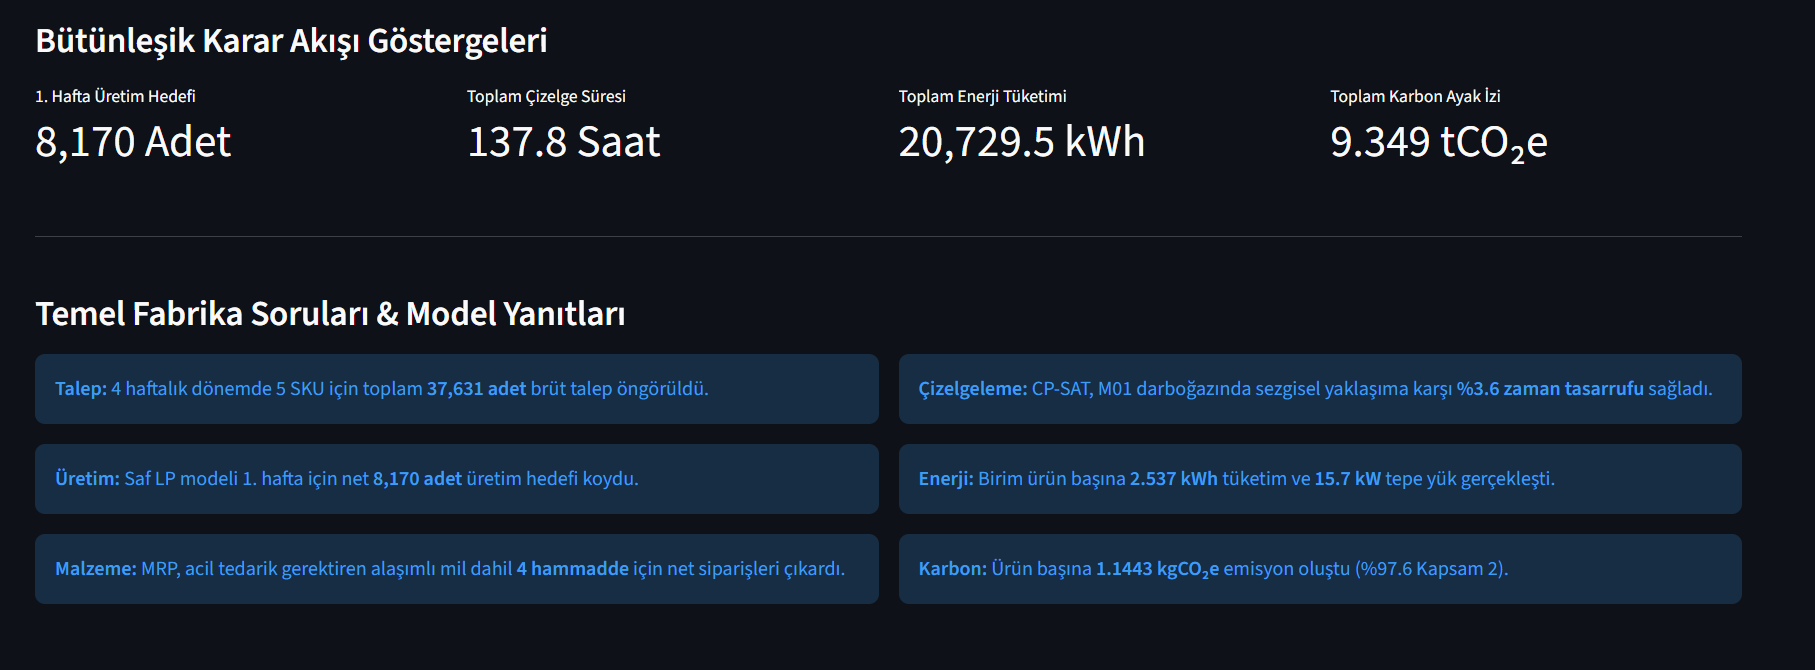
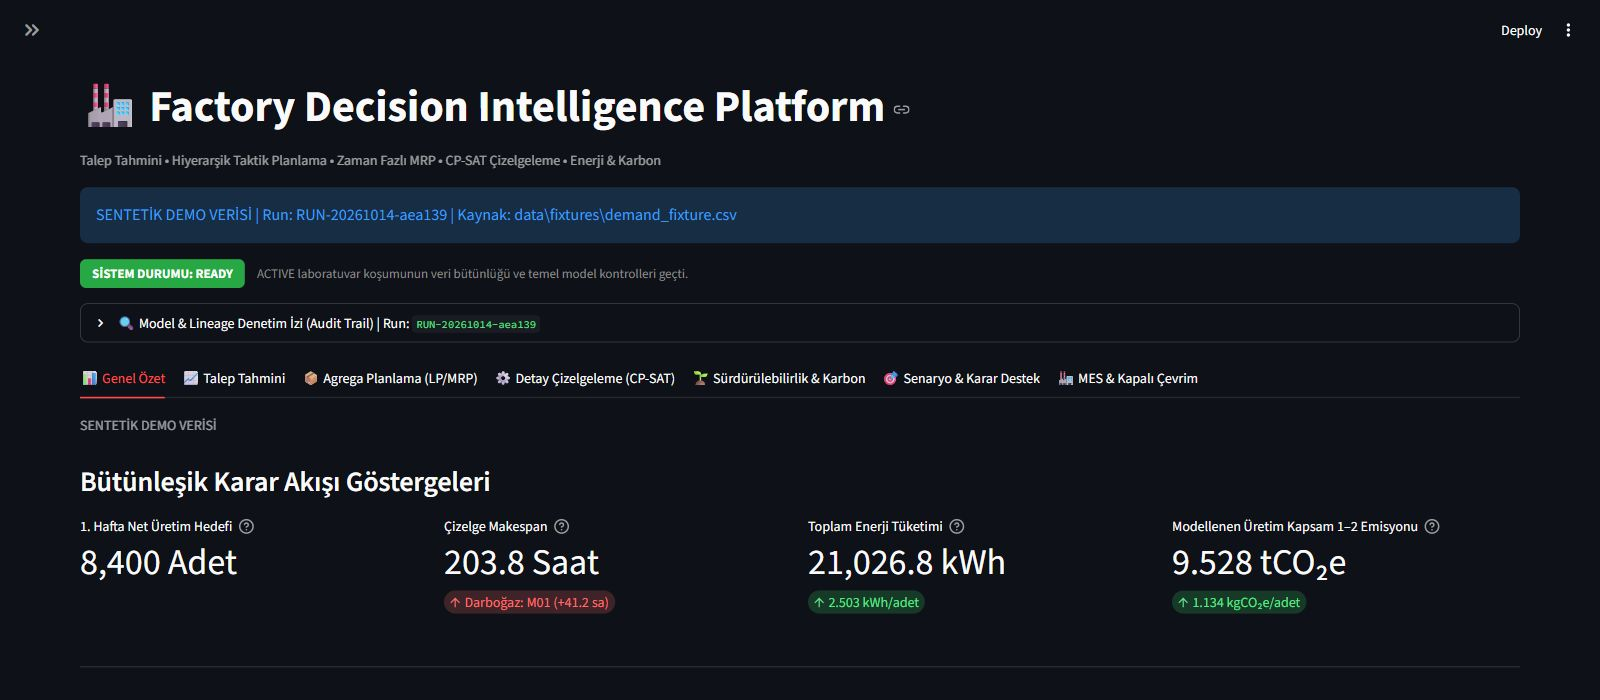
Refresh dashboard screenshots from current demo

diff --git a/README.md b/README.md
@@ -18,9 +18,17 @@
 
 Factory Decision Intelligence (FDI), üretim planı ve makine çizelgelemesi için **tek sunuculu bir karar destek laboratuvarı prototipidir**. Gösterilen sonuçlar sentetik veya açık benchmark verisidir; henüz fabrika, müşteri verisi, ERP/MES bağlantısı ya da saha faydası doğrulaması yoktur.
 
-![FDI synthetic demo dashboard showing planning indicators](docs/screenshots/01_executive_summary.png)
+![FDI dashboard summary from the current synthetic demo run](docs/screenshots/01_executive_summary.png)
 
-*Ekran görüntüsü sentetik demo verisi kullanır; gerçek bir fabrikanın sonucu değildir.*
+*Güncel uygulama görünümü; temiz sentetik demo koşumu, gerçek fabrika verisi değildir.*
+
+<details>
+<summary>Güncel CP-SAT çizelgesi ve operasyon ekranı</summary>
+
+![Current CP-SAT Gantt chart and schedule table from the synthetic demo](docs/screenshots/03_detailed_schedule_gantt.png)
+
+*Koşum: `RUN-20261014-aea139`. CP-SAT sonucu `FEASIBLE`; optimumluk kanıtı değildir.*
+</details>
 
 [Kurulum ve demo](docs/quickstart-lab.md) · [Sentetik dosya pilotu](examples/pilot-solve/README.md) · [Teknik kapsam ve kabul sınırı](docs/prefactory-technical-closure.md)
 
